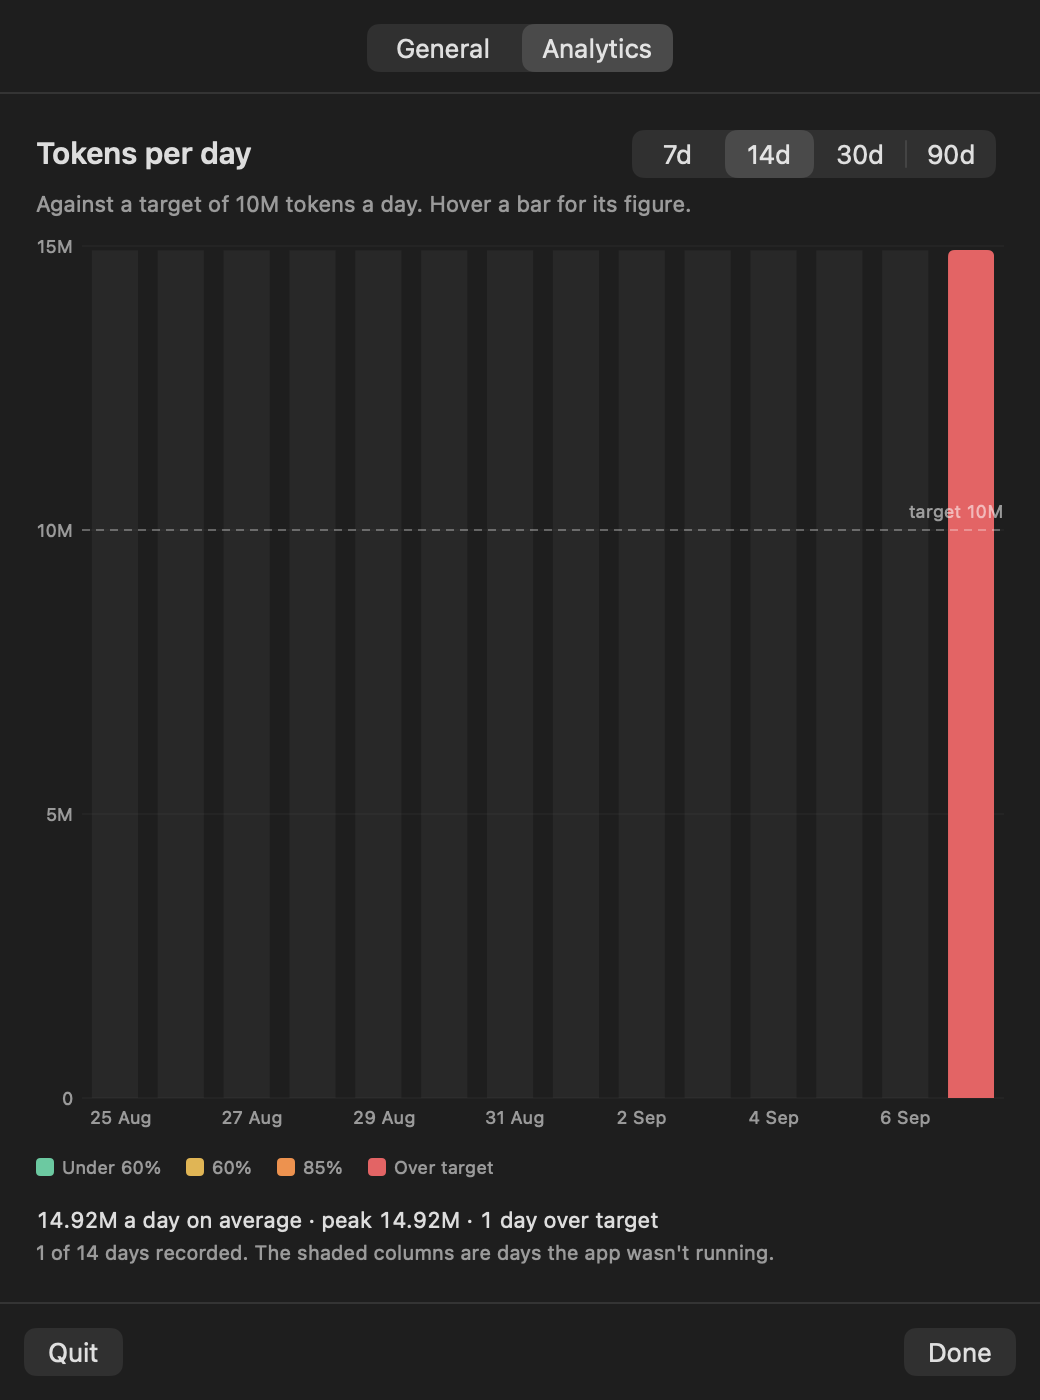
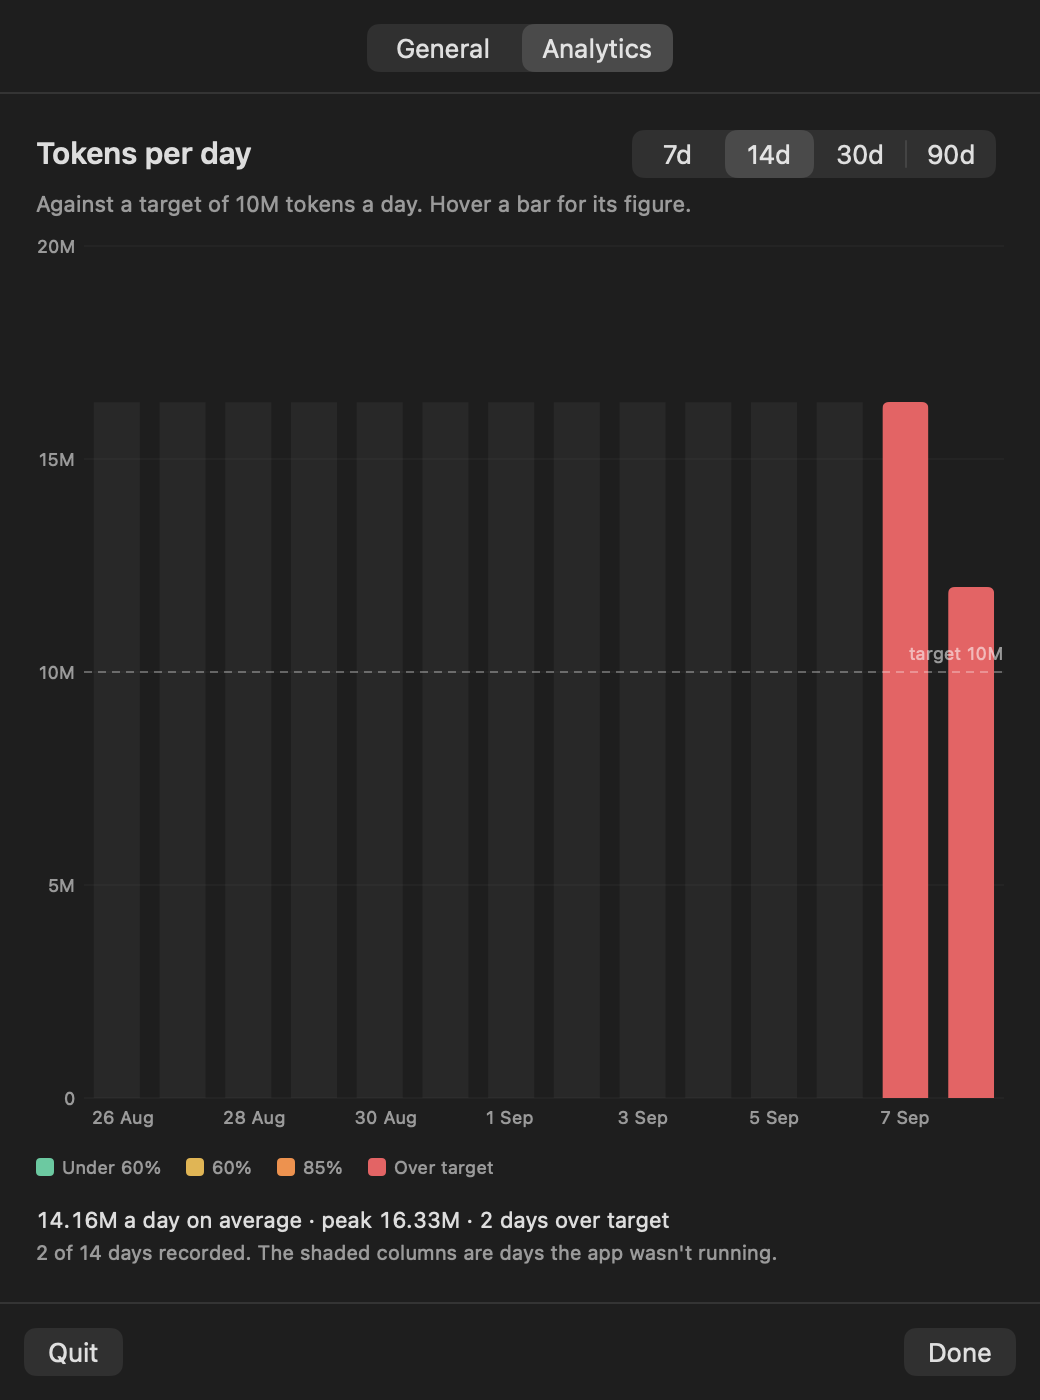
Verify both settings panes, and give the window one source for its size
Captured both panes from the real view hierarchy and checked them. Both render
correctly: the pane switcher, the providers with their data-quality badges, the
display picker, the target field, and on the other side the chart with its range
picker, band legend and summary. Driving the switcher moves between them and
driving the range picker changes the span.

The capture harness builds its own window, so it proved the panes but not the
plumbing that puts them on screen. Two tests now close that: the menu's Settings
item points at the open action with the conventional shortcut, and opening
produces one window of the expected shape, reuses it on a second open, and hides
it on close.

Writing those found that the settings window's size lived as two hardcoded pairs
of numbers, one in SettingsView's frame and one in the window's contentRect, which
had to agree by hand. SettingsView.windowSize is now the only place it is written
and the window is built from it, with a test asserting the two still match.

I also tried aligning this window on the panel's hosting controller and reverted
it. The panel needs a controller because its height is content-driven; this window
has a fixed size, and a controller defers sizing to the first layout pass and
reports 0x0 until then, which is the race that once collapsed the panel to
nothing. The comment now says why the two windows use different patterns.

49 tests, 14 mutations, all gates green.

diff --git a/Tests/TokenCounterTests/MenuTests.swift b/Tests/TokenCounterTests/MenuTests.swift
@@ -85,3 +85,46 @@ final class MenuTests: XCTestCase {
         }
     }
 }
+
+/// Closes the gap between "the settings view renders" and "choosing Settings opens
+/// it". The capture harness in tools/uishot builds its own window, so it proves the
+/// panes but not the plumbing that puts them on screen. These drive the same action
+/// the menu item targets.
+@MainActor
+final class SettingsWindowTests: XCTestCase {
+
+    func testTheMenuRoutesSettingsToTheOpenAction() {
+        let delegate = AppDelegate()
+        withExtendedLifetime(delegate) {
+            let menu = delegate.buildMenu()
+            let item = menu.items.first { $0.title.hasPrefix("Settings") }
+            XCTAssertNotNil(item, "no Settings item in the menu")
+            XCTAssertEqual(item?.action, #selector(AppDelegate.showSettings))
+            XCTAssertTrue(item?.target === delegate, "the Settings item points at nothing")
+            XCTAssertEqual(item?.keyEquivalent, ",", "the conventional shortcut is missing")
+        }
+    }
+
+    /// Opening builds a window of the shape the panes were laid out for, and opening
+    /// twice reuses it rather than stacking a second one.
+    func testOpeningSettingsProducesOneWindowOfTheExpectedShape() throws {
+        let delegate = AppDelegate()
+        try withExtendedLifetime(delegate) {
+            delegate.openSettings()
+            let window = try XCTUnwrap(delegate.settingsWindowForTesting, "no window was created")
+
+            // The window and the view must agree on one size. They used to be two
+            // hardcoded pairs of numbers in two files.
+            XCTAssertEqual(window.contentView?.frame.width ?? 0, SettingsView.windowSize.width, accuracy: 1)
+            XCTAssertEqual(window.contentView?.frame.height ?? 0, SettingsView.windowSize.height, accuracy: 1)
+            XCTAssertNotNil(window.contentView, "the window has no content view")
+            XCTAssertTrue(window.isVisible, "the window was created but never shown")
+
+            delegate.openSettings()
+            XCTAssertTrue(delegate.settingsWindowForTesting === window, "a second window was opened")
+
+            delegate.closeSettings()
+            XCTAssertFalse(window.isVisible, "closing left the window on screen")
+        }
+    }
+}

diff --git a/Sources/TokenCounter/AppDelegate.swift b/Sources/TokenCounter/AppDelegate.swift
@@ -247,17 +247,22 @@ final class AppDelegate: NSObject, NSApplicationDelegate {
 
     // MARK: - Settings
 
-    @objc private func showSettings() { openSettings() }
+    @objc func showSettings() { openSettings() }
 
     func openSettings() {
         if settingsWindow == nil {
             let window = NSWindow(
-                contentRect: NSRect(x: 0, y: 0, width: 520, height: 700),
+                contentRect: NSRect(origin: .zero, size: SettingsView.windowSize),
                 styleMask: [.titled, .closable],
                 backing: .buffered,
                 defer: false
             )
             window.title = "Token Counter"
+            // A plain hosting view here, unlike the panel. This window's size is
+            // fixed and declared by SettingsView.windowSize, which the contentRect
+            // above is built from, so there is nothing to measure. A hosting
+            // controller would defer sizing to the first layout pass and report 0x0
+            // until then, which is the race that once collapsed the panel.
             window.contentView = NSHostingView(rootView: SettingsView().environmentObject(store))
             window.isReleasedWhenClosed = false
             window.center()
@@ -266,6 +271,10 @@ final class AppDelegate: NSObject, NSApplicationDelegate {
         NSApp.activate(ignoringOtherApps: true)
         settingsWindow?.makeKeyAndOrderFront(nil)
     }
+
+    /// Read-only view of the settings window, for the tests that assert the open and
+    /// close path. Deliberately not a setter.
+    var settingsWindowForTesting: NSWindow? { settingsWindow }
 
     func closeSettings() {
         settingsWindow?.orderOut(nil)

diff --git a/Sources/TokenCounter/SettingsView.swift b/Sources/TokenCounter/SettingsView.swift
@@ -225,6 +225,13 @@ private struct GeneralSettings: View {
 /// the window-capture harness in tools/uishot confirms comes through as a real
 /// NSSegmentedControl in this exact context.
 struct SettingsView: View {
+    /// The one place this window's size is written down.
+    ///
+    /// The view declares its own frame and the window is built to a contentRect, so
+    /// before this constant existed the same two numbers lived in two files and had
+    /// to agree by hand. A test asserts they still do.
+    static let windowSize = CGSize(width: 520, height: 700)
+
     @EnvironmentObject var store: UsageStore
     @State private var pane = Pane.general
 
@@ -271,7 +278,7 @@ struct SettingsView: View {
             }
             .padding(12)
         }
-        .frame(width: 520, height: 700)
+        .frame(width: Self.windowSize.width, height: Self.windowSize.height)
         .background(Color(nsColor: .windowBackgroundColor))
     }
 }
